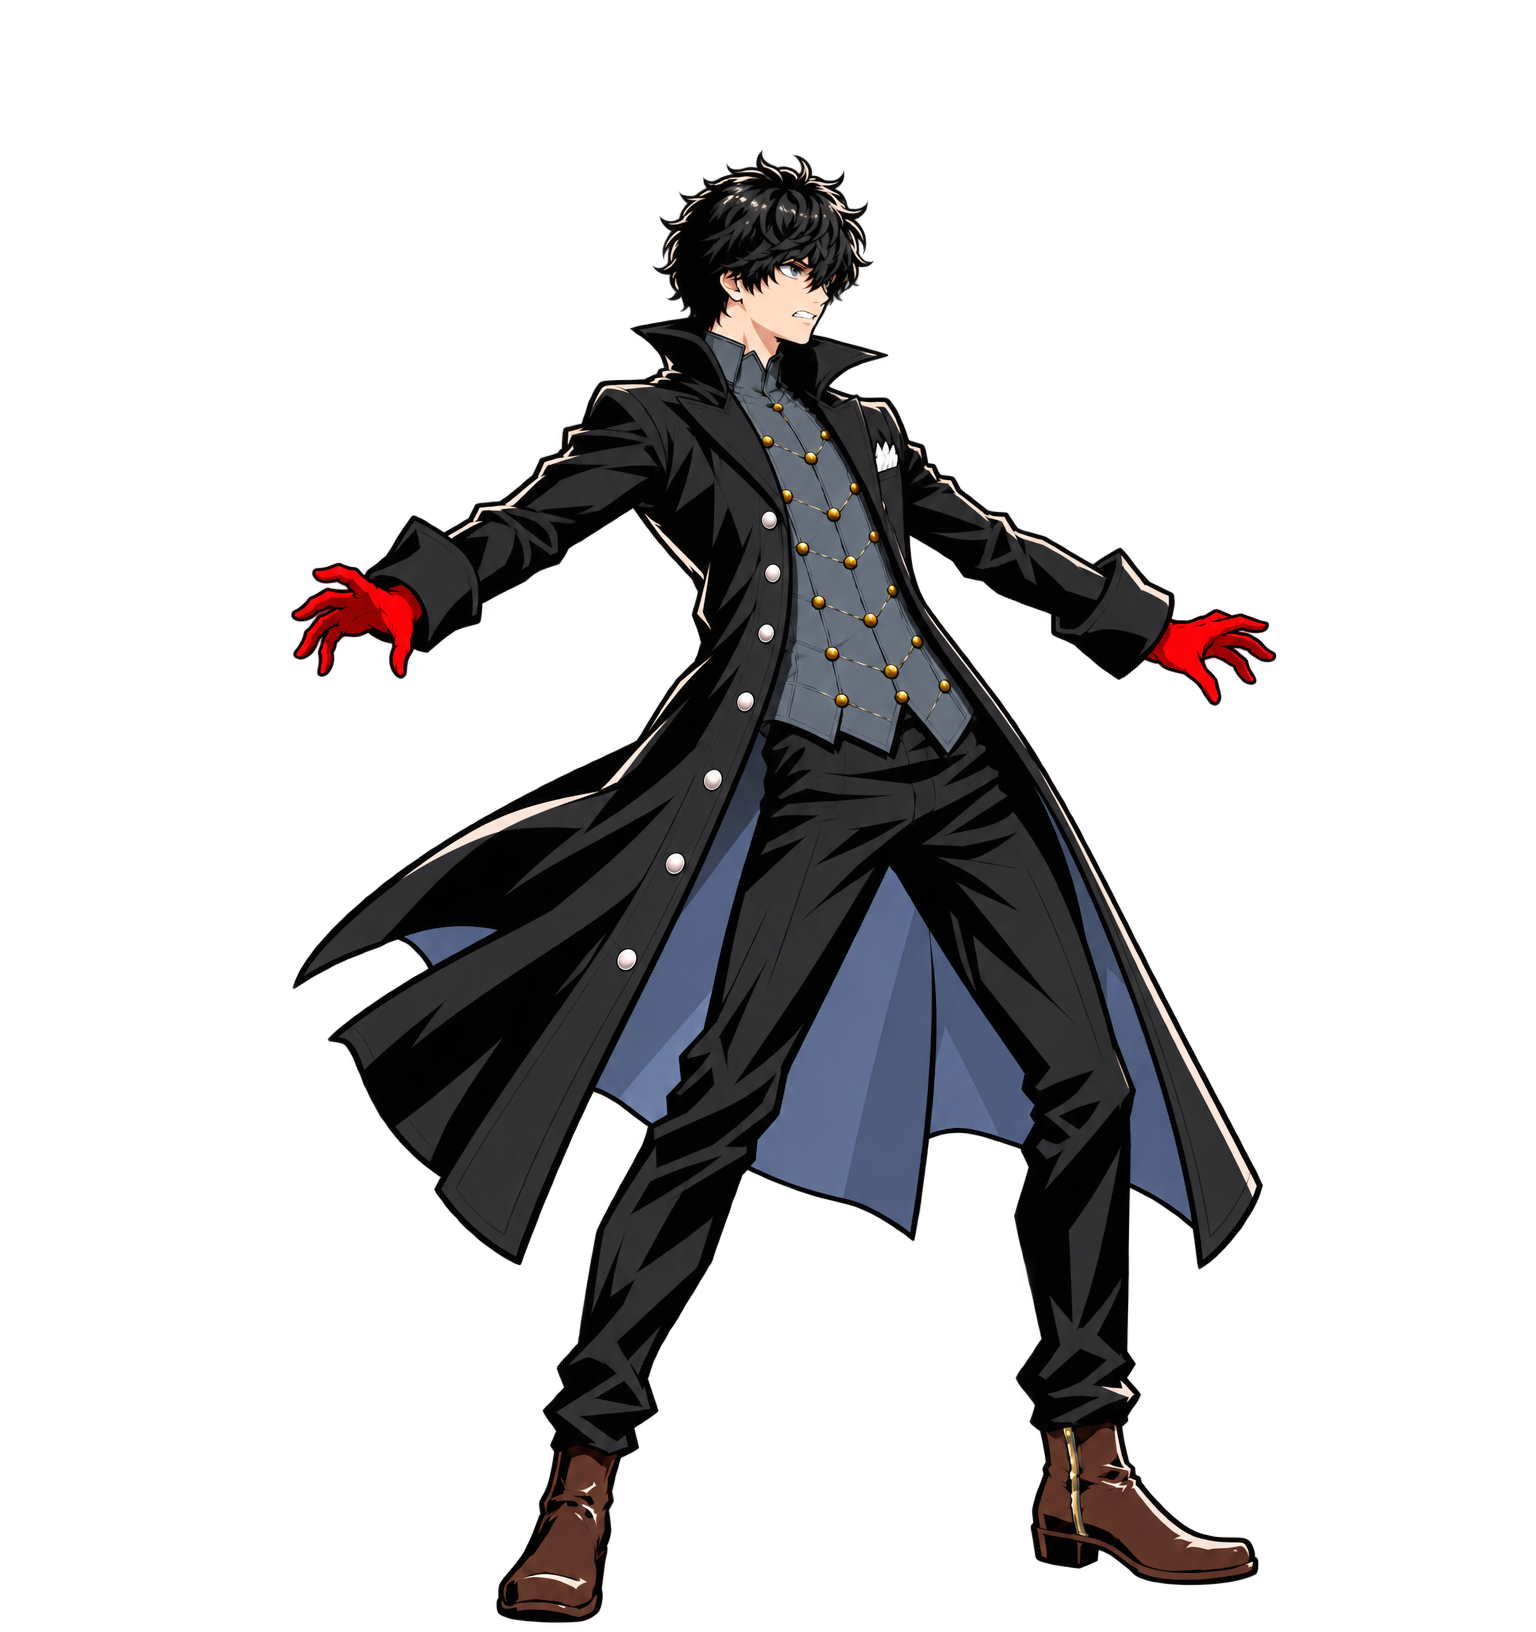
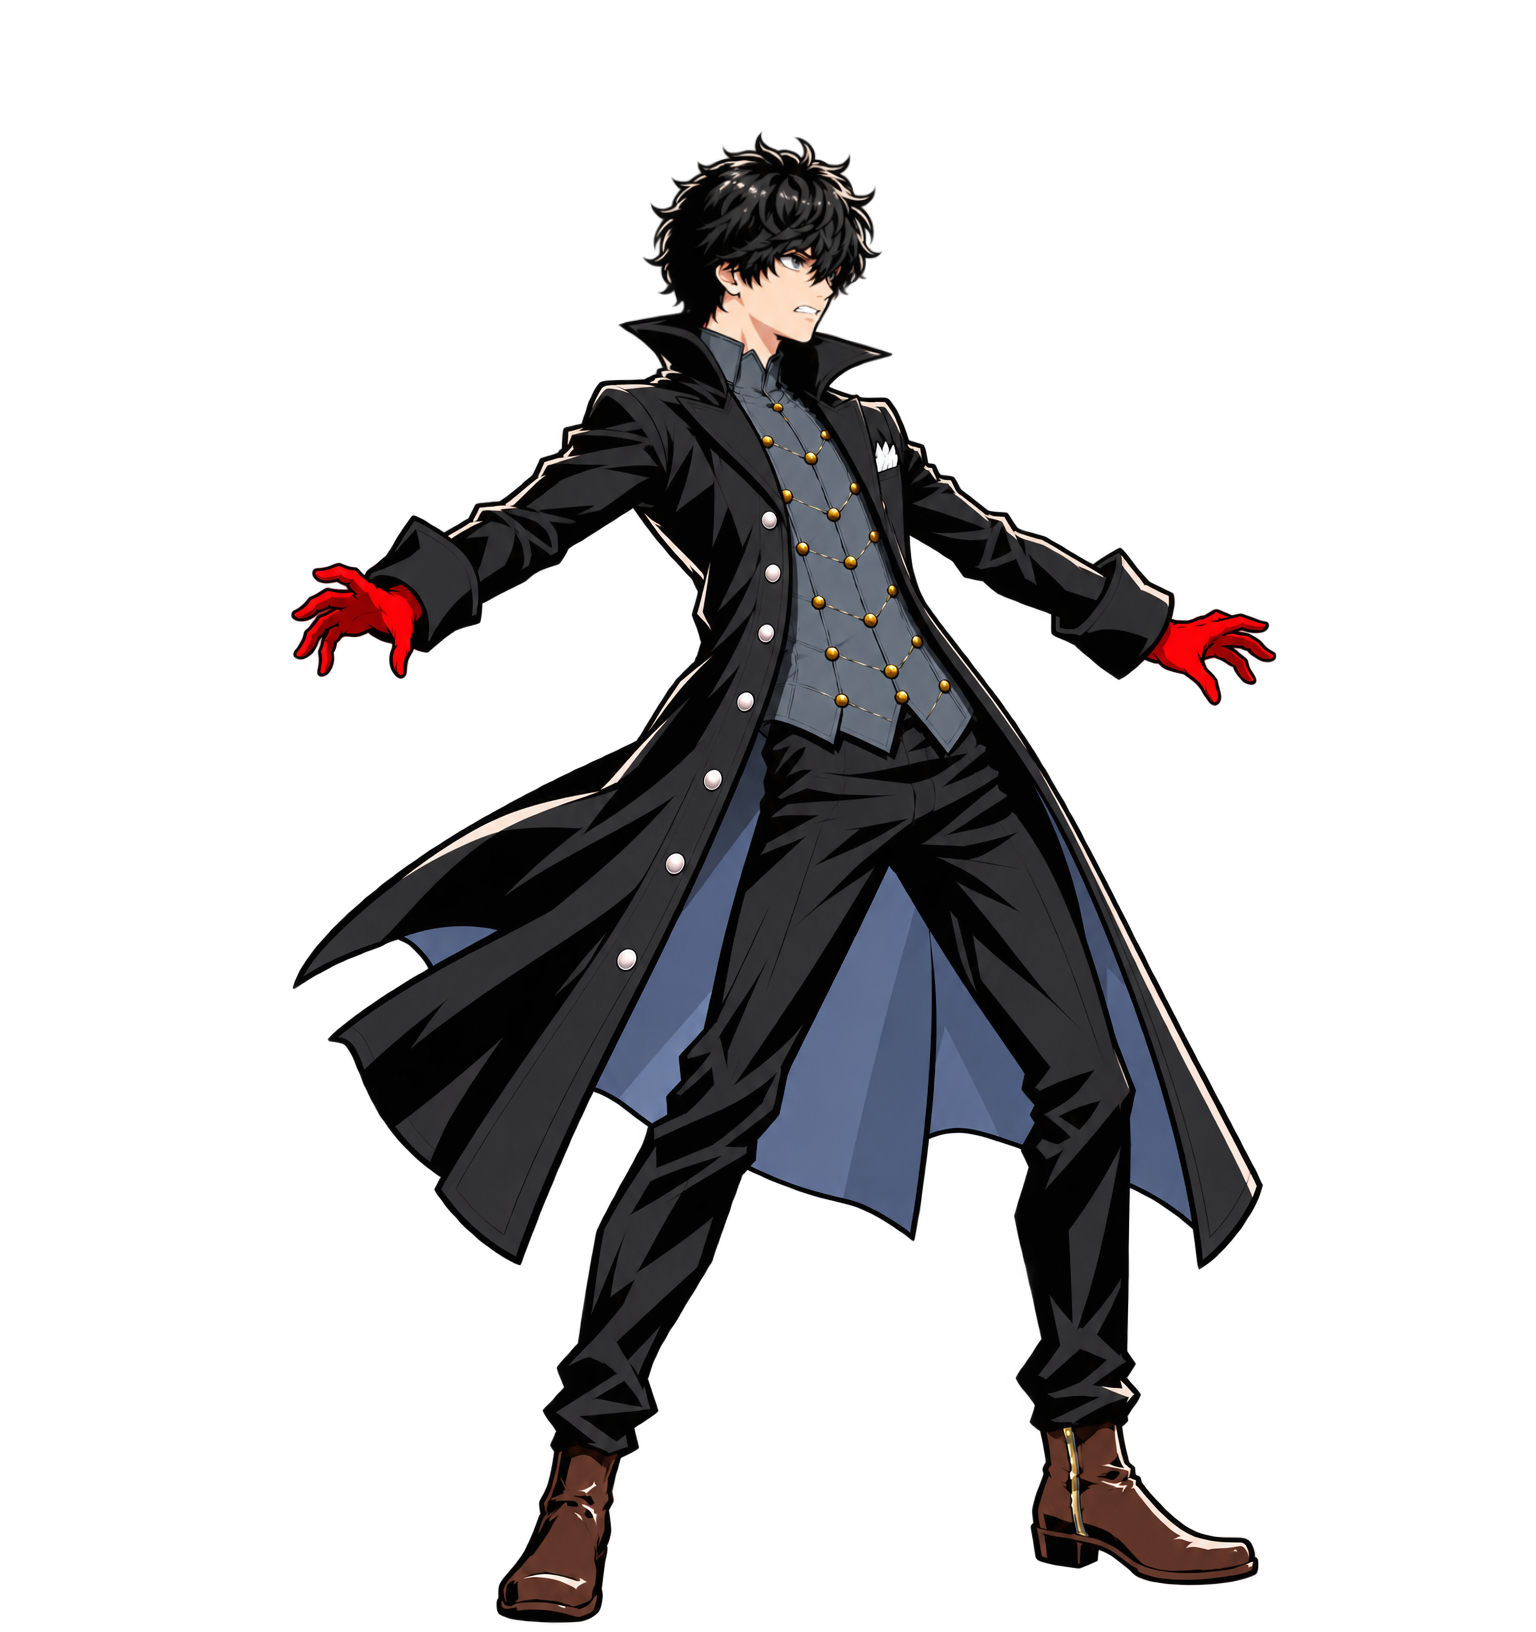
art: P5 hurt_a4 - enlarge the head drawn 8% small; hand_shrink takes a custom pivot/box
Claude-Session: https://claude.ai/code/session_01Nam5m2bn9ofCCWTGM6fwcN

Changed region(s): [[0.4062, 0.0625, 0.5938, 0.2188]]

diff --git a/tools/p5/hand_shrink.py b/tools/p5/hand_shrink.py
@@ -5,6 +5,9 @@ played. This scales the box above the wrist pivot about that pivot: factor 1 at 
 45px up, so the wrist still joins the sleeve. Pivot / box are set for glove_b's raised hand (source
 1024x1536 coordinates); change them for another frame.
     python tools/p5/hand_shrink.py art/p5/poses/glove_b.png art/p5/poses/glove_b.png 0.85
+s > 1 enlarges instead; a 4th argument px,py,x0,x1,y0,y1,taper sets another pivot / box, e.g. hurt_a4's
+head (drawn 8% small) about the neck:
+    python tools/p5/hand_shrink.py art/p5/poses/hurt_a4.png art/p5/poses/hurt_a4.png 1.08 505,265,330,700,0,265,50
 """
 import sys
 import numpy as np
@@ -13,9 +16,12 @@ from scipy.ndimage import map_coordinates
 src, out, s = sys.argv[1], sys.argv[2], float(sys.argv[3])
 px, py = 768, 300          # wrist pivot
 x0, x1, y0, y1 = 690, 880, 120, 300
+taper = 45
+if len(sys.argv) > 4:      # px,py,x0,x1,y0,y1,taper for another part (e.g. a head drawn too small)
+    px, py, x0, x1, y0, y1, taper = (int(v) for v in sys.argv[4].split(','))
 a = np.array(Image.open(src).convert('RGBA')).astype(float)
 yy, xx = np.mgrid[y0:y1, x0:x1].astype(float)
-d = np.clip((py - yy) / 45, 0, 1)
+d = np.clip((py - yy) / taper, 0, 1)
 f = 1 - (1 - s) * d
 sy = py + (yy - py) / f
 sx = px + (xx - px) / f
